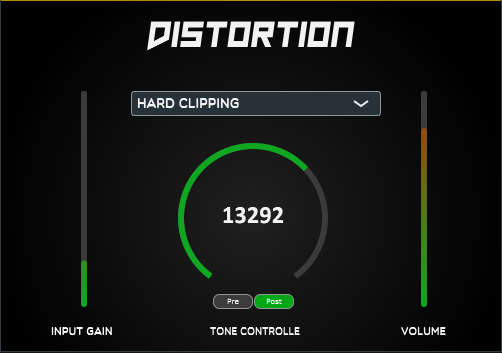
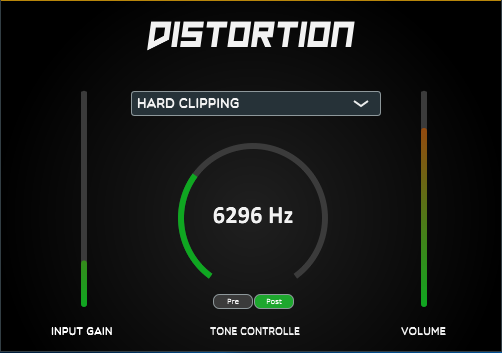
New Gui Image for the paper

diff --git a/DistortionPlugin/Source/SliderLookAndFeel.cpp b/DistortionPlugin/Source/SliderLookAndFeel.cpp
@@ -111,7 +111,7 @@ void RotaryLookAndFeel::drawRotarySlider(Graphics& g, int x, int y, int width, i
 	g.setFont(Font("Calibri", 30.0f, 1)); 
 	g.setColour(Colour(242, 242, 242));
 	
-	g.drawSingleLineText(String(slider.getValue()), centerX, centerY+5, Justification::horizontallyJustified);
+	g.drawSingleLineText(String(slider.getValue()).operator+=(" Hz"), centerX, centerY+5, Justification::horizontallyJustified);
 }
 
 
